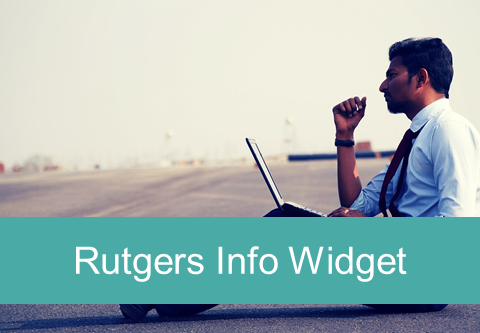
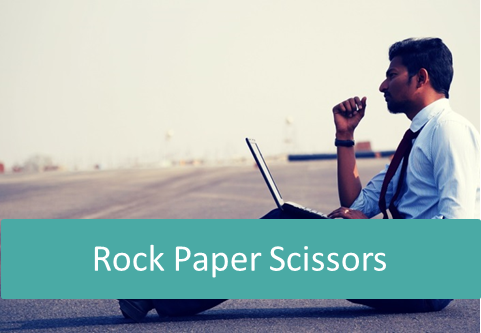
Finished Portfolio

diff --git a/portfolio.html b/portfolio.html
@@ -57,11 +57,22 @@
 			<div class="col-md-7 col-sm-12 col-xs-12" style="background: white; margin-top: 20px; margin-bottom: 15px; margin-right: 15px; margin-left: 15px;">
 				
 
-				<img src="images/labelled_hangman.png">
-				<img src="images/labelled_RPG.png">
-				<img src="images/labelled_rubik.png">
-				<img src="images/labelled_Rutgers.png">
-				<img src="">
+				<p>	
+					<h2 class="heading">Portfolio</h2>
+	
+						<hr>
+				</p>
+
+
+				<img class="portfolioimage" src="images/labelled_hangman.png">
+
+				<img class="portfolioimage" src="images/labelled_RPG.png">
+
+				<img class="portfolioimage" src="images/labelled_rubik.png">
+
+				<img class="portfolioimage" src="images/labelled_Rutgers.png">
+
+				<img class="portfolioimage" src="images/labelled_RPS.png">
 
 
 

diff --git a/css/style.css b/css/style.css
@@ -47,3 +47,15 @@ body {
 	color: #4aaaa5; 
 	font-family: 'Arial', 'Helvetica Neue', Helvetica, sans-serif;
 } 
+
+/* Portfolio Code Here*/
+
+.portfolioimage {
+
+	width: 200px;
+	height: 150px;
+	margin-top: 10px;
+	margin-bottom: 10px;
+	margin-left: 10px;
+	margin-right: 10px;
+}

diff --git a/index.html b/index.html
@@ -77,7 +77,6 @@
 
 				<div class=" col-md-3 col-sm-12 col-xs-12" style="background: white; margin-top: 20px; margin-bottom: 15px; margin-right: 15px; margin-left: 15px; height: 50%;">
 						
-
 						
 				<div>			
 					<p>	
